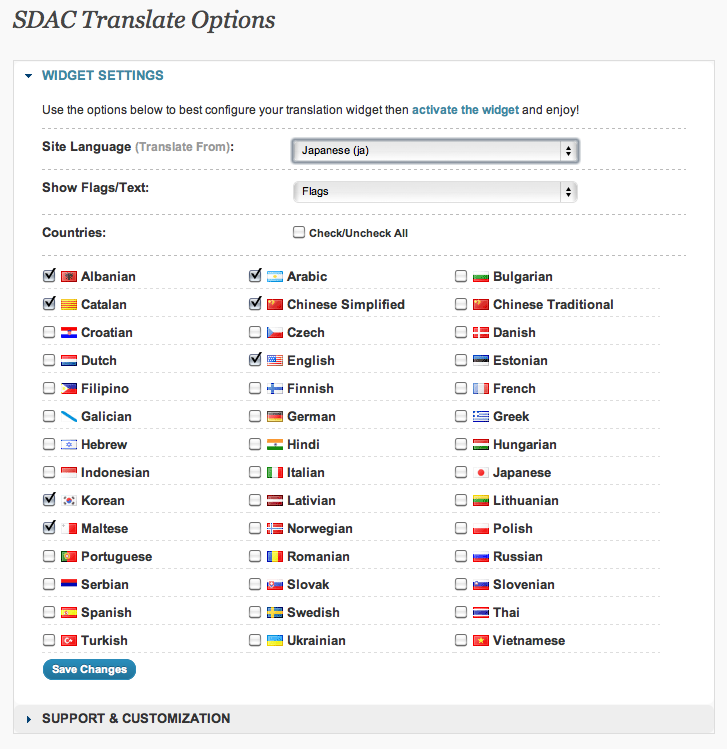
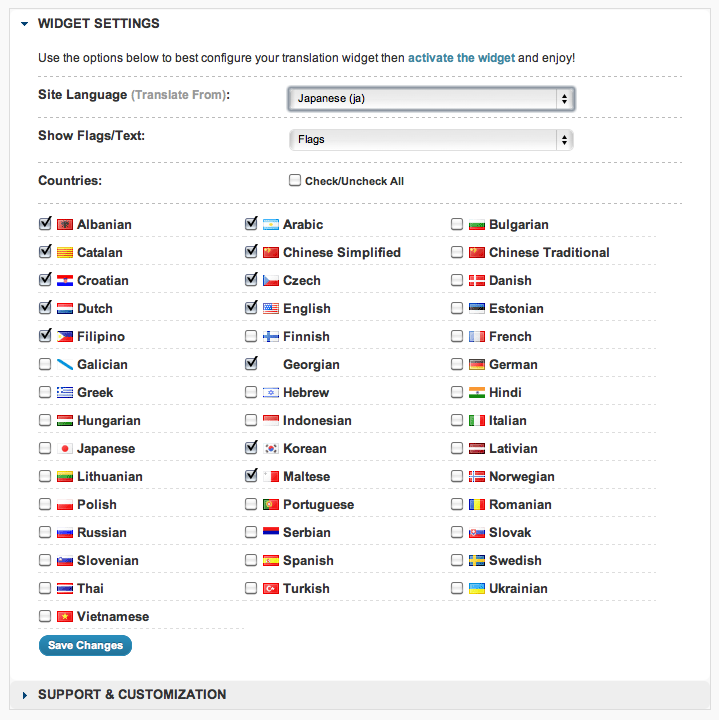
Added Georgian to languages
git-svn-id: https://plugins.svn.wordpress.org/sdac-translate/trunk@361833 b8457f37-d9ea-0310-8a92-e5e31aec5664

diff --git a/css/sdac-translate_admin.css b/css/sdac-translate_admin.css
@@ -16,11 +16,12 @@
 
 #sdac_translate .check div {float:left;display:inline;width:32%;margin-right:5px;}
 #sdac_translate .check label {font-weight:bold;float:none;width:auto}
-#sdac_translate #country_options {width:100%;height:20px;border-bottom:1px dashed #bbb;border-top:1px dashed #bbb;margin:10px 0 10px 0;padding:10px 0 10px 0;}
+#sdac_translate #country_options, #sdac_translate .border {width:100%;height:20px;border-bottom:1px dashed #bbb;border-top:1px dashed #bbb;margin:10px 0 10px 0;padding:10px 0 10px 0;}
 #sdac_translate .country_option input {float:left;width:auto;}
 #sdac_translate .item h4 {float:left;display:inline;width:250px;margin:0;padding:0;}
 #sdac_translate .item h5 {float:left;display:inline;margin:0;padding:0;}
 #sdac_translate .item.check input{vertical-align:text-bottom;}
+#sdac_translate .submit {margin-top:25px;}
 
 #sdac_translate .item .country_option span {float:left;display:block;background: url('../images/flags.gif?v2') no-repeat;height:11px;line-height:11px;margin-left:5px;padding-left:20px;}
 #sdac_translate .sdac_flag {margin-top:2px;}

diff --git a/css/sdac-translate.css b/css/sdac-translate.css
@@ -43,3 +43,4 @@
 #sdac_translate .sdac_flag#uk {background-position: 0 -418px;} 
 #sdac_translate .sdac_flag#vi {background-position: 0 -429px;}
 #sdac_translate .sdac_flag#en {background-position: 0 -440px;}
+#sdac_translate .sdac_flag#ka {background-position: 0 -451px;}

diff --git a/sdac-translate.php b/sdac-translate.php
@@ -4,7 +4,7 @@ Plugin Name: SDAC Translate
 Plugin URI: http://www.sandboxdev.com/blog-and-cms-development/wordpress/wordpress-plugins/
 Description: Offer simple and lightweight site translation using <a href="http://translate.google.com/" target="_blank">Google Translate</a> with this sidebar widget.
 Author: Jennifer Zelazny/SDAC Inc.
-Version: 1.2.3
+Version: 1.2.4
 Author URI: http://www.sandboxdev.com/
 */
 
@@ -93,7 +93,8 @@ $countries = array(
 	array( 'lang' => 'Filipino', 'lang_code' => 'tl' ),	
 	array( 'lang' => 'Finnish', 'lang_code' => 'fi' ),	
 	array( 'lang' => 'French', 'lang_code' => 'fr' ),	
-	array( 'lang' => 'Galician', 'lang_code' => 'gl' ),	
+	array( 'lang' => 'Galician', 'lang_code' => 'gl' ),
+	array( 'lang' => 'Georgian', 'lang_code' => 'ka' ),
 	array( 'lang' => 'German', 'lang_code' => 'de' ),	
 	array( 'lang' => 'Greek', 'lang_code' => 'el' ),	
 	array( 'lang' => 'Hebrew', 'lang_code' => 'iw' ),
@@ -203,8 +204,8 @@ class sdac_translate_widget extends WP_Widget {
 		
 		<?php
 			// Cached Output
-			$translate = get_transient( 'sdac_translate_widget_code' ); 
-			if ( false === ($translate = get_transient('sdac_translate_widget_code')) ) {
+			$translate = get_transient( 'sdac_translate_widget_output' ); 
+			if ( false === ($translate = get_transient('sdac_translate_widget_output')) ) {
 				if ( $sdac_translate['site_language'] ) {
 					$site_lang =  $sdac_translate['site_language'];
 				} else {
@@ -226,7 +227,7 @@ class sdac_translate_widget extends WP_Widget {
 					}
 					$translate .='</ul>'."\n";
 					$translate .='<div style="clear:both"></div>'."\n";
-					set_transient( 'sdac_translate_widget_code', $translate, 86400 );
+					set_transient( 'sdac_translate_widget_output', $translate, 86400 );
 			}
 			echo $translate;
 		?>
@@ -265,7 +266,7 @@ function sdac_translate_validate( $input ) {
 add_action( 'sdac_translate_validate', 'sdac_invalidate_custom_caches', 1, 2 );
 function sdac_invalidate_custom_caches() {
 	$sdac_translate = get_option( 'sdac_translate' );
-	delete_transient( 'sdac_translate_widget_code' );
+	delete_transient( 'sdac_translate_widget_output' );
 }
 
 
